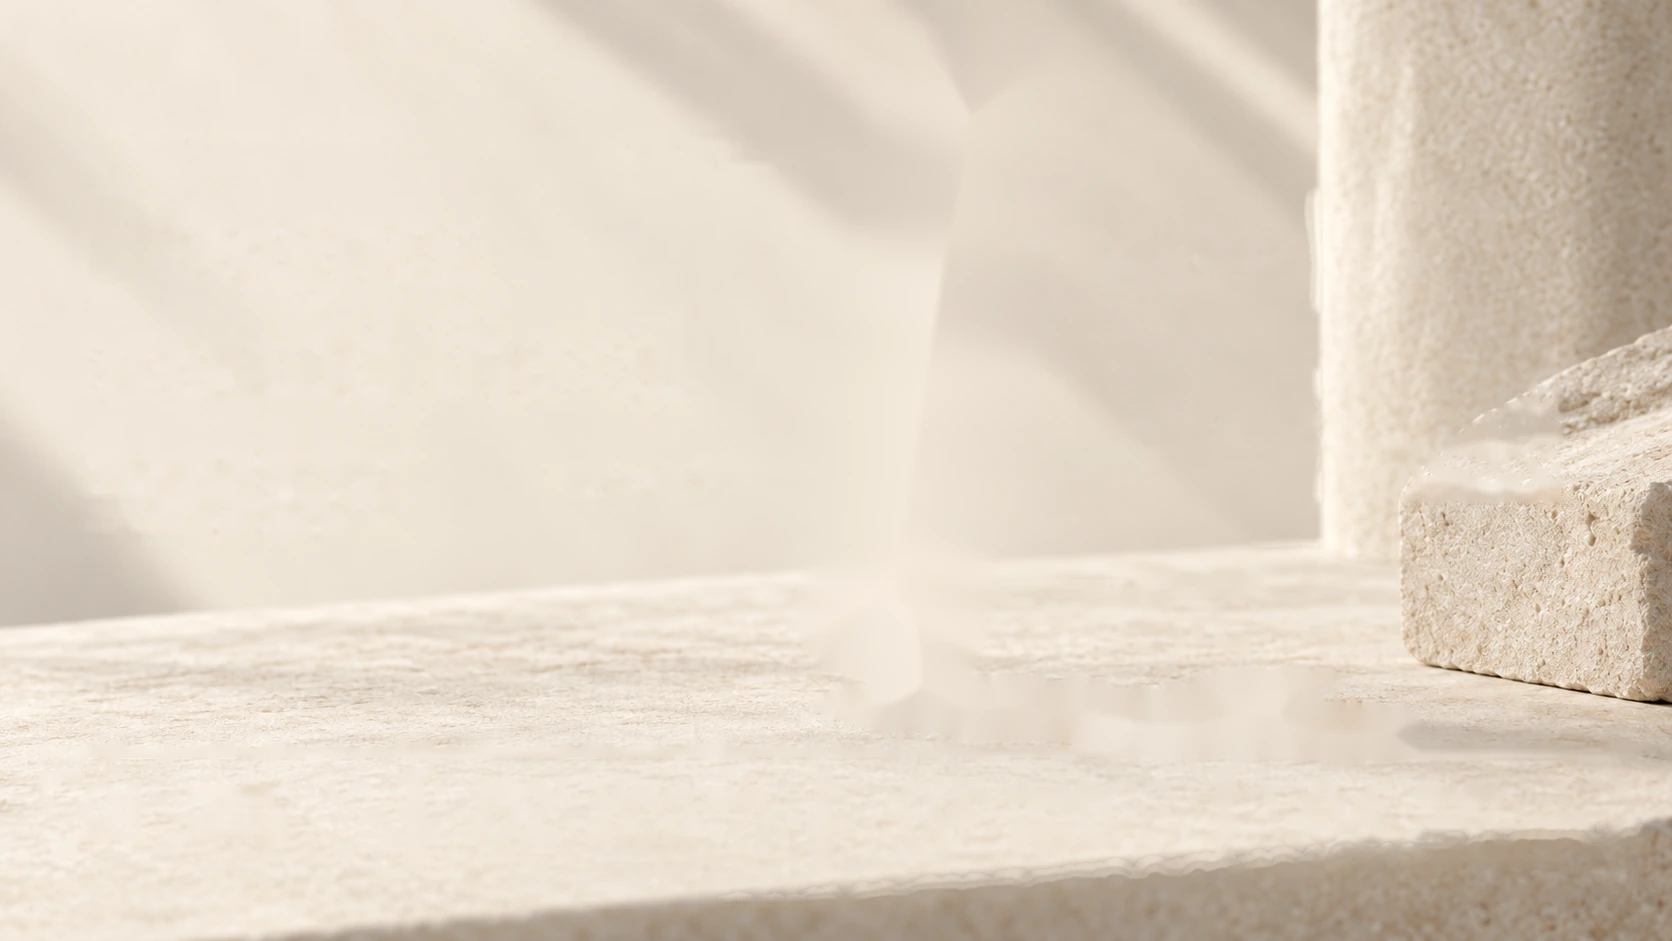
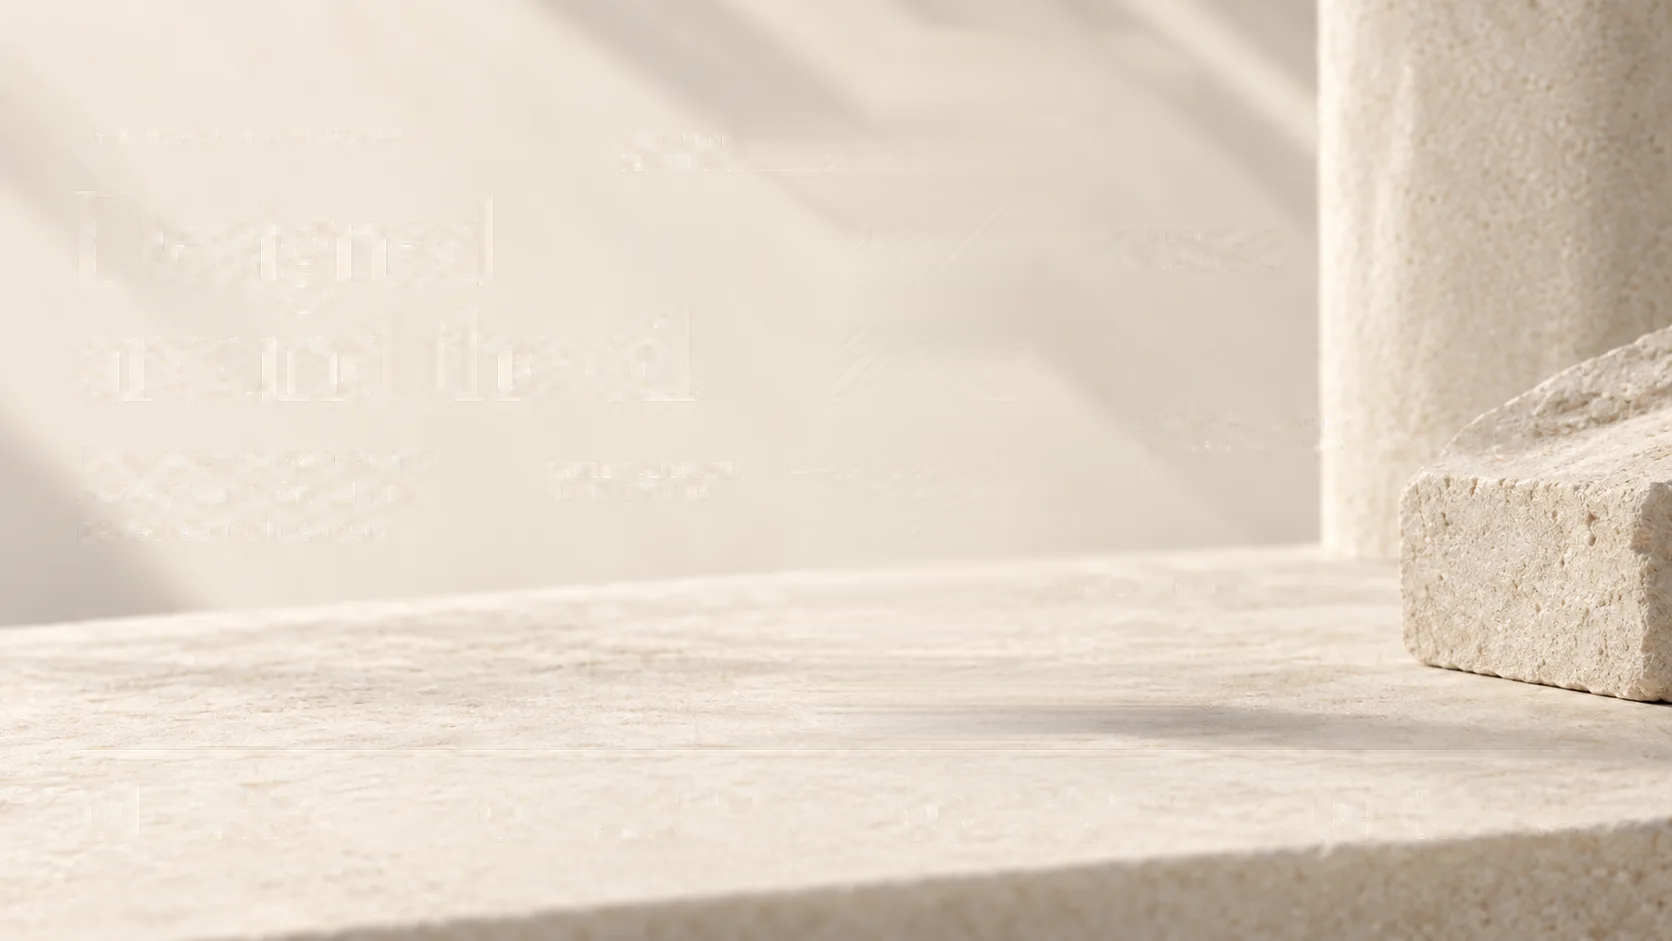
Rebuild the hardware device from the PR61 pixels.
The overlay now copies that file outside the pill box, redraws the three pills as even capsules labeled 1, 2 and 3, and keeps the floor shadow in CSS. The plate column is refilled from the earlier plate, and the callout leaders start 8px clear of the text.

diff --git a/Home.dc.html b/Home.dc.html
@@ -303,6 +303,13 @@ input::placeholder { color: #B0A99A; }
   object-fit: fill;
   display: block;
 }
+.bond-hw-shadow {
+  position: absolute;
+  inset: 0;
+  background: radial-gradient(ellipse 12% 5.5% at 58.4% 74.3%, var(--matte-black), transparent 70%);
+  opacity: 0.38;
+  pointer-events: none;
+}
 .bond-hw-lines {
   position: absolute;
   inset: 0;
@@ -368,7 +375,7 @@ input::placeholder { color: #B0A99A; }
   color: var(--matte-black);
 }
 .bond-hw-calls .bond-hw-core { left: 37.02%; top: 14.24%; letter-spacing: min(0.67em, 0.482cqw); }
-.bond-hw-calls .bond-hw-heat { left: 32.78%; top: 49.31%; letter-spacing: min(0.625em, 0.45cqw); }
+.bond-hw-calls .bond-hw-heat { left: calc(32.78% - 8px); top: 49.31%; letter-spacing: min(0.625em, 0.45cqw); }
 .bond-hw-calls .bond-hw-disp { left: 65.79%; top: 24.66%; letter-spacing: min(0.61em, 0.439cqw); }
 .bond-hw-calls .bond-hw-inh { left: 61.6%; top: 61.85%; font-size: max(12px, 0.72cqw); letter-spacing: min(0.55em, 0.396cqw); }
 .bond-hw-note {
@@ -446,6 +453,27 @@ input::placeholder { color: #B0A99A; }
   line-height: 1.2;
   color: var(--bond-hw-ink);
 }
+/* Leaders start 8px outside the callout and run to the fixed tail beside the device.
+   Length is the callout's own width, so the gap holds when the 12px floor widens the words. */
+@media (min-width: 1200px) {
+  .bond-hw-core::after,
+  .bond-hw-heat::after {
+    content: "";
+    position: absolute;
+    left: calc(100% + 8px);
+    height: 0.096cqw;
+    background: var(--bond-hw-leader);
+    pointer-events: none;
+  }
+  .bond-hw-core::after {
+    top: 1.746cqw;
+    width: calc(13.638cqw - 100% - 8px);
+  }
+  .bond-hw-heat::after {
+    top: 0.24cqw;
+    width: calc(17.669cqw - 100%);
+  }
+}
 .bond-hw.bond-hw-armed .bond-hw-rv { opacity: 0; transition: opacity .4s cubic-bezier(0.22,1,0.36,1); }
 .bond-hw.bond-hw-armed .bond-hw-rv.bond-hw-in { opacity: 1; }
 @media (prefers-reduced-motion: reduce) {
@@ -477,7 +505,8 @@ input::placeholder { color: #B0A99A; }
     margin: 8px auto 8px;
     overflow: hidden;
   }
-  .bond-hw-device {
+  .bond-hw-device,
+  .bond-hw-shadow {
     inset: auto;
     width: calc(100% * 1672 / 557);
     height: calc(100% * 941 / 807);
@@ -691,7 +720,7 @@ input::placeholder { color: #B0A99A; }
   <section id="hardware" class="bond-hw" data-screen-label="Hardware" aria-labelledby="bond-hw-title">
     <div class="bond-hw-frame">
       <img class="bond-hw-plate" src="media/hardware/bond-hardware-plate.webp" width="1672" height="941" alt="The Bond hardware with its full-function smart display shown active.">
-      <div class="bond-hw-device-hold"><img class="bond-hw-device" src="media/hardware/bond-hardware-device.webp" width="1672" height="941" alt="" aria-hidden="true"></div>
+      <div class="bond-hw-device-hold"><div class="bond-hw-shadow" aria-hidden="true"></div><img class="bond-hw-device" src="media/hardware/bond-hardware-device.webp" width="1672" height="941" alt="" aria-hidden="true"></div>
       <p class="bond-hw-eyebrow bond-hw-rv">THE BOND HARDWARE</p>
       <h2 id="bond-hw-title" class="bond-hw-title bond-hw-rv"><span>Designed</span><span>around the oil.</span></h2>
       <p class="bond-hw-lede bond-hw-rv">
@@ -700,10 +729,9 @@ input::placeholder { color: #B0A99A; }
       </p>
       <svg class="bond-hw-lines bond-hw-rv" viewBox="0 0 1672 941" preserveAspectRatio="xMidYMid meet" aria-hidden="true">
         <g class="bond-hw-leaders" fill="none" stroke-width="1.6" stroke-linecap="round" stroke-linejoin="round">
-          <polyline points="802,154 832,154 866,176 876,184"/>
-          <polyline points="1096,243 1052,246 1020,266 1012,274"/>
-          <polyline points="784,468 844,461"/>
-          <polyline points="1026,588 978,592"/>
+          <polyline points="847,164 866,176 876,184"/>
+          <polyline points="1088,243 1052,246 1020,266 1012,274"/>
+          <polyline points="1018,588 978,592"/>
         </g>
         <g class="bond-hw-dots">
           <circle cx="881" cy="185" r="6.5"/>
